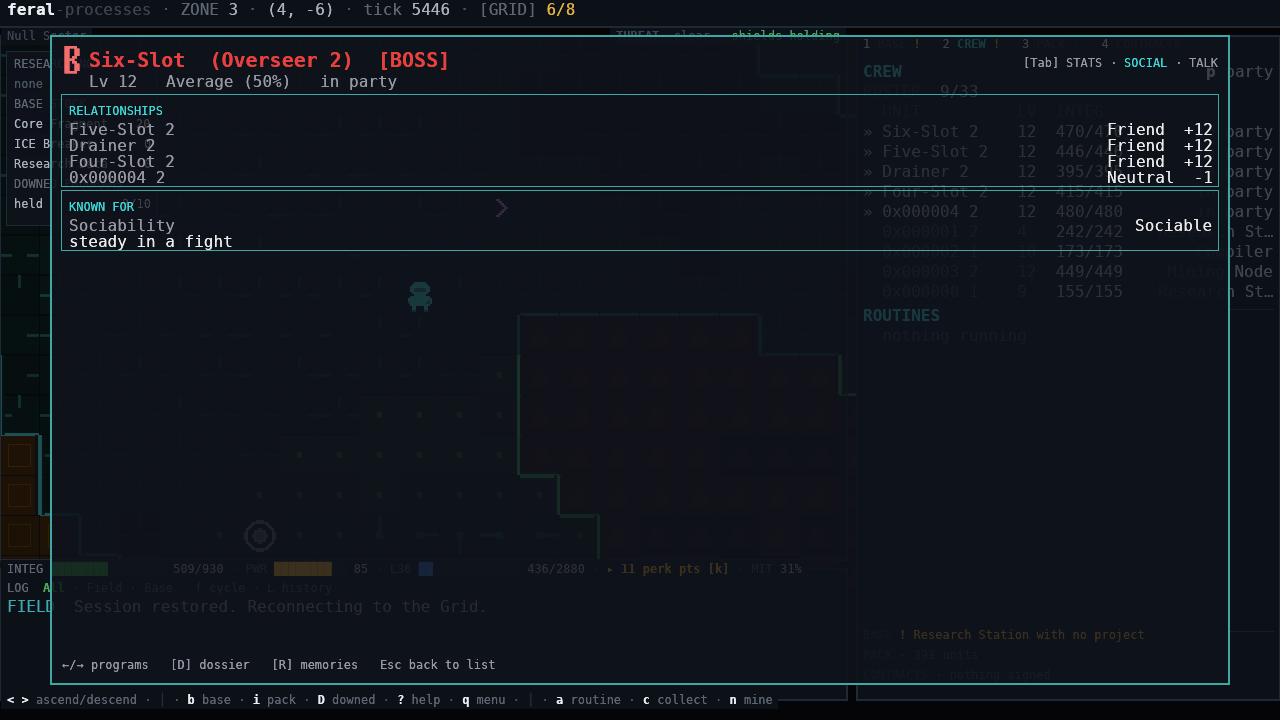
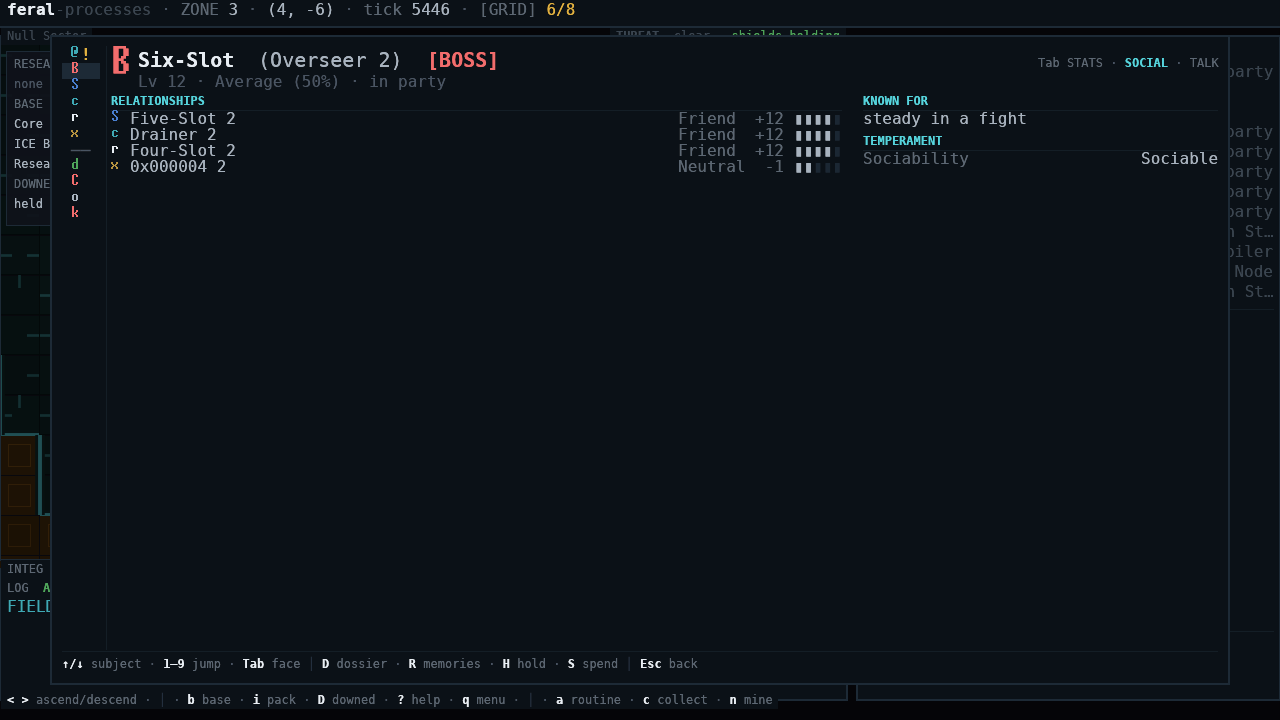
Site: screenshots of the new manifest and the base report
Claude-Session: https://claude.ai/code/session_01QsFoB9LwimpgB4nUsTgFxG

diff --git a/index.html b/index.html
@@ -513,8 +513,12 @@ footer{border-top:1px solid var(--line-soft);padding:64px 0 48px;background:#090
       </div>
       <div style="display:flex;flex-direction:column;gap:18px">
         <figure class="shot">
-          <img src="img/social.png" alt="A program's SOCIAL tab, listing its relationships with its crewmates and its traits" width="1280" height="720" loading="lazy">
-          <figcaption>The SOCIAL tab.</figcaption>
+          <img src="img/manifest.png" alt="A program's manifest: its health, damage, attack and mitigation with a rank among your programs, its moves and routines, and its recent memories, with every program listed in a column on the left" width="1280" height="720" loading="lazy">
+          <figcaption>A program's manifest. Every program you own is listed down the left, and a ! marks one that needs you.</figcaption>
+        </figure>
+        <figure class="shot">
+          <img src="img/social.png" alt="A program's manifest on its SOCIAL tab, listing its relationships with its crewmates and its traits, with every program listed in a column on the left" width="1280" height="720" loading="lazy">
+          <figcaption>The SOCIAL tab of a manifest.</figcaption>
         </figure>
         <figure class="shot">
           <img src="img/memories.png" alt="A program's memories: fighting beside crewmates, and one bad memory of another program turning on them, adding up to a good mood" width="1280" height="720" loading="lazy">
@@ -524,8 +528,8 @@ footer{border-top:1px solid var(--line-soft);padding:64px 0 48px;background:#090
     </div>
 
     <figure class="shot" style="margin-top:48px">
-      <img src="img/staff.png" alt="The Base Staff table: every program with its current job, and checkboxes for Operate, Guard, Dig and Build" width="1280" height="720" loading="lazy">
-      <figcaption>The Base Staff screen: what each program is doing, and which jobs it's allowed to take.</figcaption>
+      <img src="img/staff.png" alt="The Staffing page of the base report: every program with its current job, and checkboxes for Operate, Guard, Dig and Build" width="1280" height="720" loading="lazy">
+      <figcaption>The Staffing page of the base report: what each program is doing, and which jobs it's allowed to take.</figcaption>
     </figure>
   </div>
 </section>
@@ -554,6 +558,17 @@ footer{border-top:1px solid var(--line-soft);padding:64px 0 48px;background:#090
       <figure class="shot">
         <img src="img/research.png" alt="The research chart: boxes for each research project with lines between them, and the selected project's cost and unlock shown beside it" width="1280" height="720" loading="lazy">
         <figcaption>The research chart. Each project shows what it unlocks.</figcaption>
+      </figure>
+    </div>
+
+    <div class="split" style="align-items:start;margin-top:36px">
+      <figure class="shot">
+        <img src="img/report-overview.png" alt="The base report's Overview page: a list of pages down the left, and one line for each page saying whether it is fine or what the base is short of" width="1280" height="720" loading="lazy">
+        <figcaption>The base report (B) has a page for staff, production, stock, orders and alerts. The Overview says which ones need attention.</figcaption>
+      </figure>
+      <figure class="shot">
+        <img src="img/report-staff.png" alt="The Staff page of the base report: for Coherence and Slack, how many amenities are built, how many places they offer and how many are needed, with the shortfall marked" width="1280" height="720" loading="lazy">
+        <figcaption>The Staff page. For each need it shows how many amenities are built and how many are needed. Each amenity serves two programs at a time.</figcaption>
       </figure>
     </div>
 

diff --git a/README.md b/README.md
@@ -25,9 +25,12 @@ cargo run -- --template <name> --keys "<keys>" --screenshot out.png
 |---|---|
 | `hero.png` | `--template siege` |
 | `base.png` | `--template chains` |
-| `staff.png` | `--template chains --keys "b 4"` |
+| `staff.png` | `--template chains --keys "B ] ] ] ] ]"` (base report, Staffing page) |
 | `research.png` | `--template chains --keys "b 9"` |
 | `social.png` | `--template bonds --keys "p Enter M Tab"` |
+| `manifest.png` | `--template bonds --keys "p Enter M"` |
+| `report-overview.png` | `--template chains --keys "B"` |
+| `report-staff.png` | `--template chains --keys "B ] Tab"` |
 | `memories.png` | `--template bonds --keys "p Enter R"` |
 | `roster.png` | `--template bonds --keys "p Enter"` |
 | `downed.png` | `--template bonds --keys "D"` |
